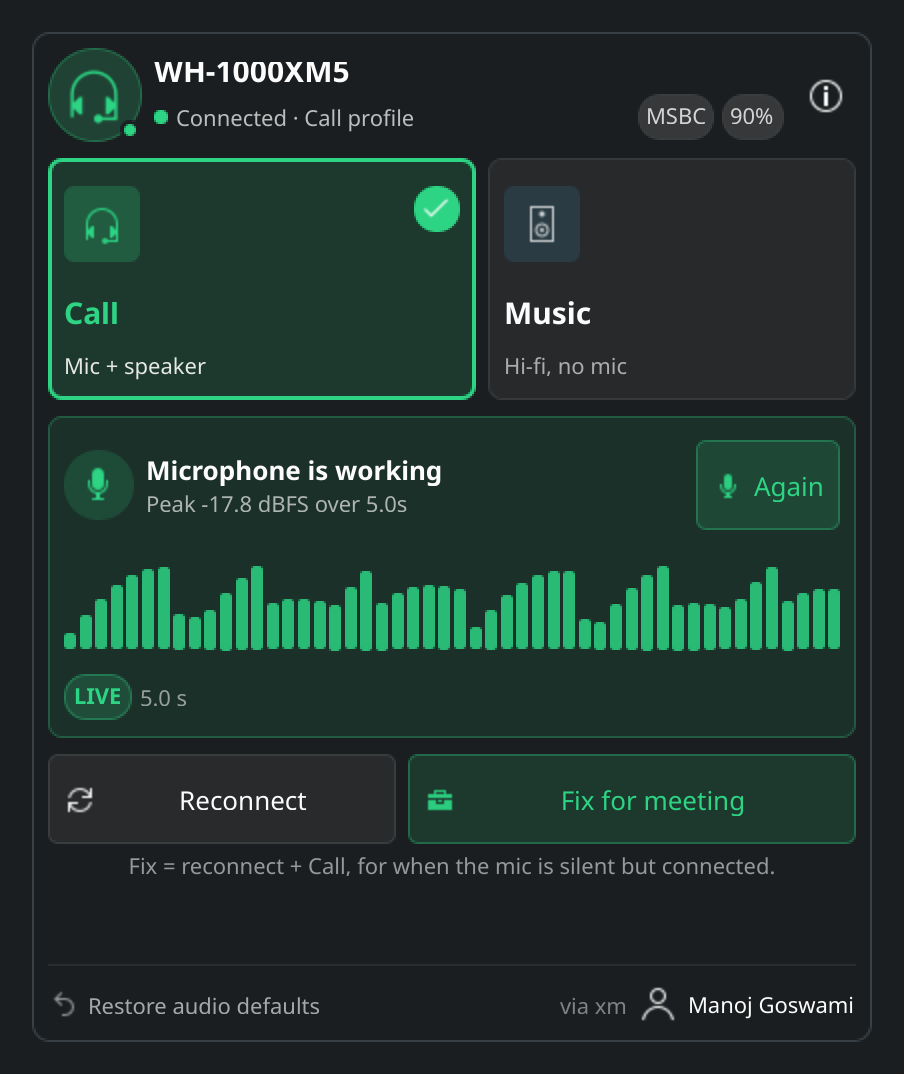
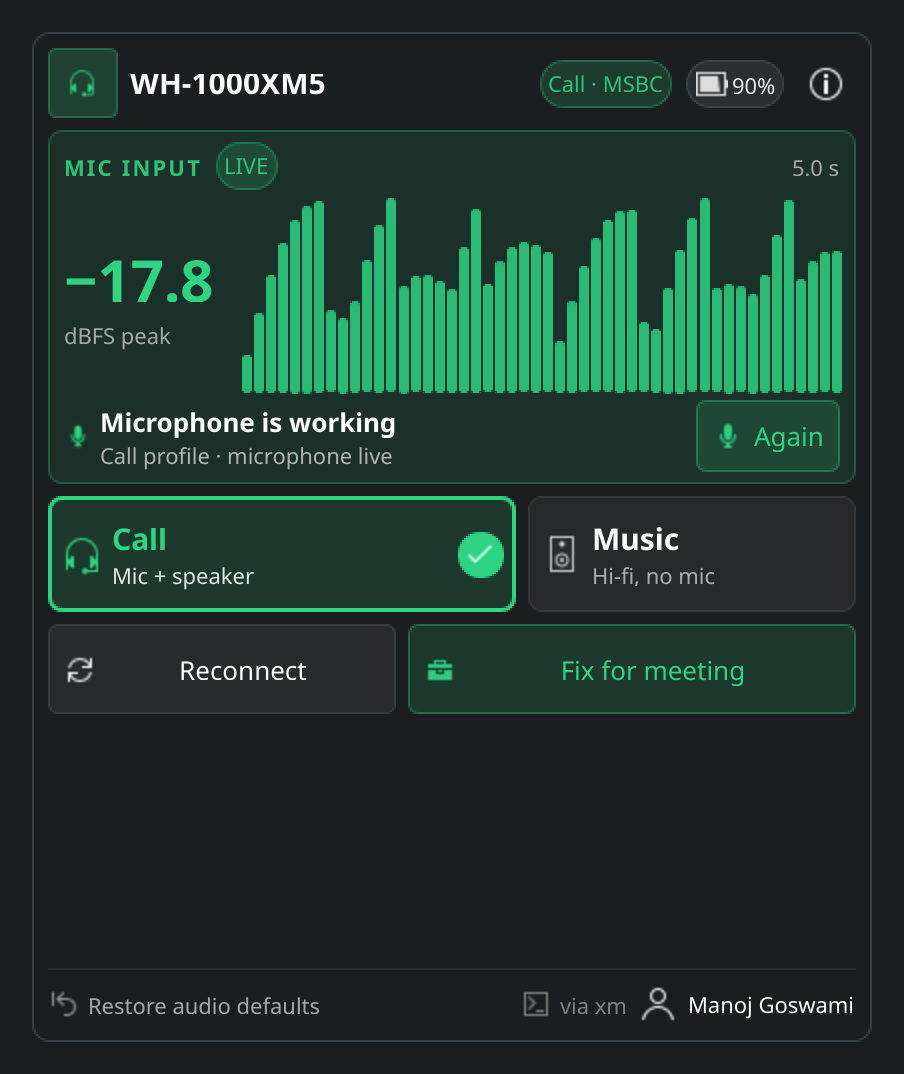
docs(assets): refresh widget previews for the live-audio revamp

diff --git a/README.md b/README.md
@@ -127,8 +127,8 @@ A native Plasma 6 desktop applet that brings one-click audio profile control dir
 </p>
 
 #### ✨ Key Features
-- **Device-aware header**: headset name, live connection/profile state, active codec (`LDAC`, `AAC`, `mSBC`) and battery percentage.
-- **Tactile Profile Cards**: Large **Call** and **Music** targets with an active badge, hover feedback, and 2px accent borders.
+- **Device-aware header**: a state-tinted headset tile, the headset name, a profile chip with the active codec (`LDAC`, `AAC`, `mSBC`), a battery chip with its level glyph, and a busy spinner while a command runs.
+- **Compact profile cards**: **Call** and **Music** targets with an icon, title, subtitle, an active check badge, hover feedback, and accent borders.
 - **Live microphone test**: one click switches to Call if needed, records 5 seconds, and fills a **50-bar waveform from real 100 ms samples as you speak** with `LIVE` / `QUIET` / `SILENT`, peak dBFS and duration.
 - **Connection recovery**: **Reconnect** retries the Bluetooth link up to three times, waits for the audio card and its profiles, and verifies the link before reporting success. **Fix** = Reconnect + Call.
 - **Keyboard shortcuts**: <kbd>C</kbd> Call · <kbd>M</kbd> Music · <kbd>T</kbd> Test · <kbd>R</kbd> Reconnect · <kbd>F</kbd> Fix · <kbd>Esc</kbd> close About/confirmation.
@@ -137,6 +137,8 @@ A native Plasma 6 desktop applet that brings one-click audio profile control dir
   - 🔵 **Blue / Accent**: Music mode (A2DP hi-fi audio).
   - 🟠 **Amber**: Command running or device waking from standby.
   - ⚪ **Grey**: Disconnected / no Bluetooth headset detected.
+  - The panel glyph follows the same state: a headset when connected, an inactive Bluetooth mark when no headset is present, and a warning triangle when the audio profile cannot be read.
+- **About overlay**: device snapshot, command reference, keyboard shortcuts, and a GitHub-marked link to this repository.
 - **Adaptive Light & Dark Engine**: Curated high-contrast semantic palettes for **Breeze Dark**, **Breeze Light**, and custom KDE themes.
 - **Non-blocking Execution**: Commands run asynchronously via Plasma's job runner with hard timeouts; plasmashell never hangs or freezes.
 
@@ -243,7 +245,7 @@ graph LR
 3. **If Audio Glitches**: Click **Fix** (or run `xm fix`). It retries the Bluetooth link and engages Call mode — usually about 7 seconds when the link is healthy, up to a minute if the headset has to be woken.
 4. **Self-Test**: Click **Test** (or run `xm test`) and speak for 5 seconds. The widget switches to Call automatically, the waveform moves with your voice in real time, and the result reports `LIVE` / `QUIET` / `SILENT` with peak dBFS.
 5. **If the Link Is Dead**: Click **Reconnect** (or run `xm reconnect`) to reset the Bluetooth link without forcing a profile change.
-6. **Info & Safe Rollback**: Click the **ⓘ** button for the device snapshot, command reference, shortcuts, and rollback command.
+6. **Info & Safe Rollback**: Click the **ⓘ** button (About) for the device snapshot, command reference, shortcuts, a GitHub-marked repository link, and the rollback command.
 
 ---
 
@@ -349,6 +351,7 @@ The live-waveform, profile-switch and generic-headset contracts have
 headset-free regression tests using fake `pactl`/`parec`/`bluetoothctl` binaries:
 
 ```bash
+./tests/test-widget-icons.sh
 ./tests/test-generic-headset.sh
 ./tests/test-profile-switch.sh
 ./tests/test-live-waveform.sh
@@ -359,7 +362,9 @@ They prove that Call/Music return as soon as the profile is active, that cards
 offering only the mandatory CVSD/SBC profiles still switch, that a non-Sony
 audio device is detected without relying on model names, and that
 `xm test --live-file` publishes real levels during recording, with the final
-JSON still containing 50 bars. The configuration test keeps `main.xml`,
+JSON still containing 50 bars. The icon test pins the semantic icon map, the
+state-aware panel glyph, the About GitHub mark, and the live-audio layout
+contract. The configuration test keeps `main.xml`,
 the `cfg_<key>` aliases in the config page, and every `readCfg()` lookup in
 sync, so a setting can never silently stop saving. Screenshots and the demo GIF
 are rendered from the real QML with:

diff --git a/plasmoid/README.md b/plasmoid/README.md
@@ -12,8 +12,8 @@ headset. Codec and battery details vary by model and firmware. LE Audio/LC3
 [ Music ]  -> A2DP/LDAC : hi-fi output, no mic   (after a meeting)
 ```
 
-plus a real waveform mic test, `Reconnect`, `Fix`, keyboard shortcuts, and a
-device/codec/battery header.
+plus a real waveform mic test, `Reconnect`, `Fix`, keyboard shortcuts, a
+profile/battery chip header, and an About overlay with a GitHub-marked repo link.
 
 <p align="center">
   <img src="../assets/screenshot-light.png" alt="XM Headset widget, light theme" width="45%">
